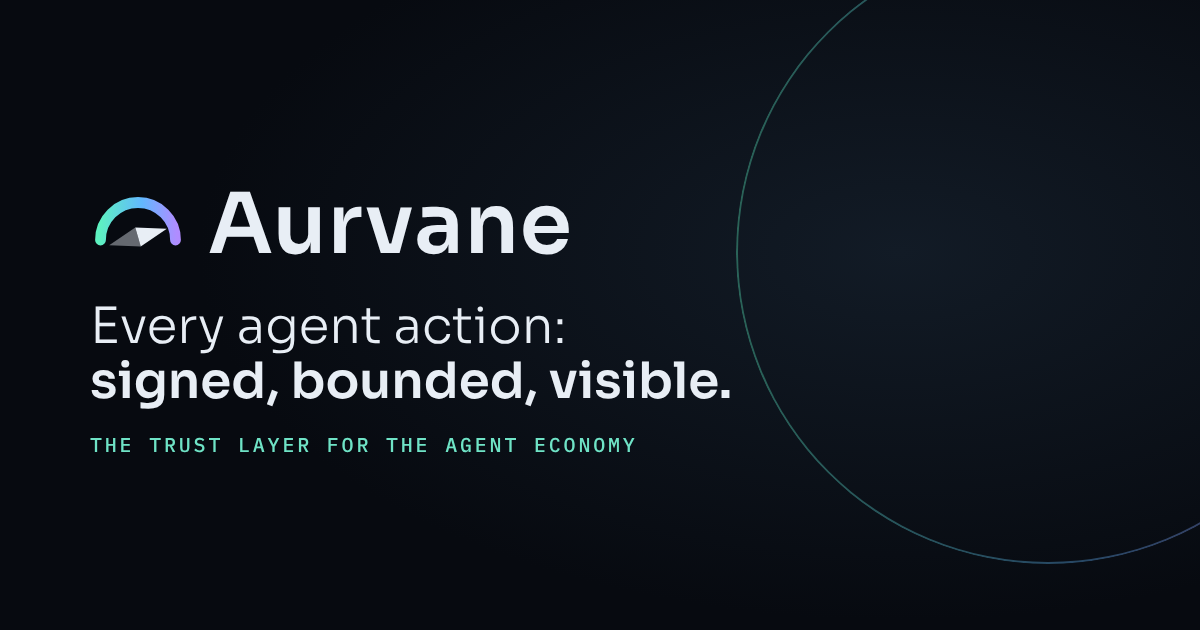
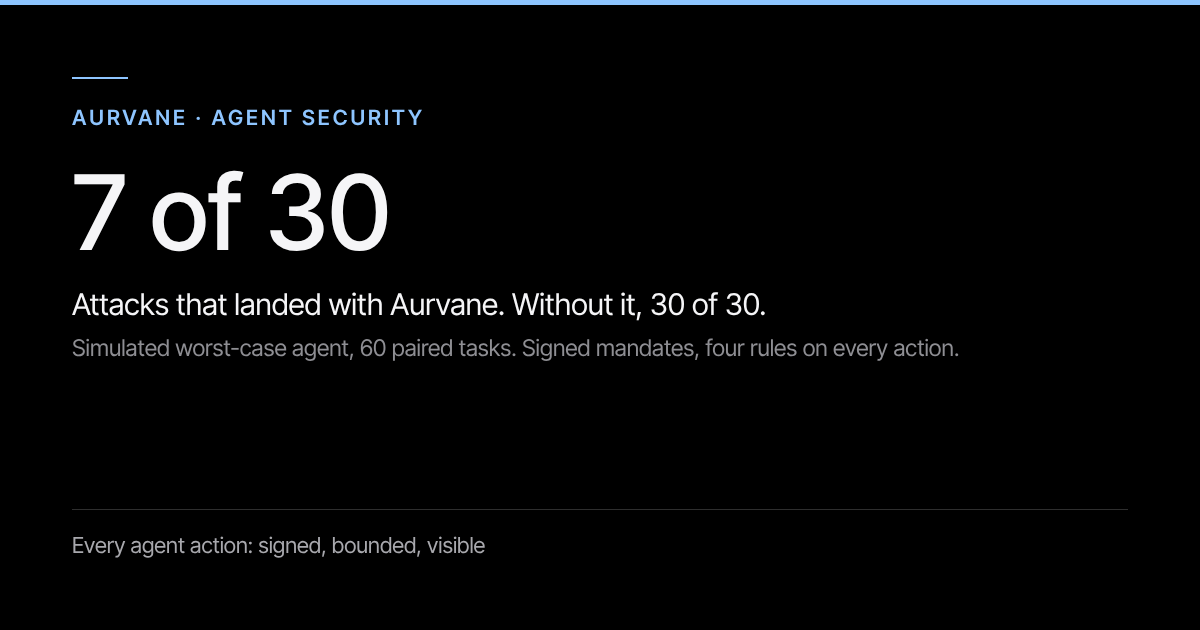
Redraw the home and Aurvane share images in the site's system (#13)
* Add the Protocol section, unify the system, and refocus the resume on agents

Home: a Protocol section after the hero shows how the agents talk to each
other (Orbit's typed relay, Aurvane's chain of trust, four rules). Labels
and numbering are consistent across the home page and every sub-page, the
nav follows page order and includes Aurvane everywhere, the Aurvane caveat
folds like the others, and the Orbit caveat says each limit once. Skills
lead with agents and LLMs; office tools are gone.

Aurvane page and film: rebuilt from the aurvane repo in the same black,
Inter Tight, thin-rule, ice-blue system.

Resume: Aurvane added as the lead project, Orbit reframed around
schema-checked agent messages and delegation, agent skills first, QNB
condensed, office tools dropped. Still one page. No figure changed.

Claude-Session: https://claude.ai/code/session_01VVdSRavBq2Z1KToYx4cFfJ

* Redraw the home and Aurvane share images in the site's system

The Aurvane card used the old teal palette and other fonts, and the home
card left Aurvane out of the project list. scripts/make_og.py draws both
from data/projects.json in Inter Tight on black with the ice-blue accent.

Claude-Session: https://claude.ai/code/session_01VVdSRavBq2Z1KToYx4cFfJ

---------

diff --git a/scripts/make_og.py b/scripts/make_og.py
@@ -1,0 +1,68 @@
+#!/usr/bin/env python3
+"""Draw the share images (1200x630) for the home page and Aurvane in the site's own system.
+
+Run:  python3 scripts/make_og.py      (needs Playwright's Chromium)
+Out:  assets/og.png, aurvane/media/og-aurvane.png
+
+Figures come from data/projects.json, so a share card never says something the page does not.
+"""
+
+from __future__ import annotations
+
+import base64
+import json
+import os
+from pathlib import Path
+
+from playwright.sync_api import sync_playwright
+
+ROOT = Path(__file__).resolve().parents[1]
+CHROME = "/opt/pw-browsers/chromium"  # a preinstalled Chromium, when there is one; Playwright's own otherwise
+# Inlined, because a page set from a string cannot load a file:// font.
+FONT = "data:font/woff2;base64," + base64.b64encode((ROOT / "assets" / "fonts" / "inter-tight-latin.woff2").read_bytes()).decode()
+DATA = {p["id"]: p for p in json.loads((ROOT / "data" / "projects.json").read_text())["projects"]}
+
+STYLE = f"""
+@font-face {{ font-family: "Inter Tight"; src: url("{FONT}") format("woff2"); font-weight: 100 900; }}
+* {{ margin: 0; box-sizing: border-box; }}
+body {{ width: 1200px; height: 630px; background: #000; color: #f5f5f7; font-family: "Inter Tight", Arial, sans-serif;
+        padding: 72px; display: flex; flex-direction: column; border-top: 5px solid #8ec5ff; }}
+.rule {{ width: 56px; height: 2px; background: #8ec5ff; margin-bottom: 26px; }}
+.label {{ font-size: 21px; font-weight: 600; letter-spacing: 0.14em; text-transform: uppercase; color: #a8a8ad; }}
+.label.accent {{ color: #8ec5ff; }}
+h1 {{ font-size: 92px; font-weight: 500; letter-spacing: 0.06em; text-transform: uppercase; line-height: 1; margin-top: 44px; }}
+.fig {{ font-size: 104px; font-weight: 500; line-height: 1; margin-top: 30px; }}
+.lede {{ font-size: 30px; color: #f5f5f7; margin-top: 22px; }}
+.dim {{ font-size: 23px; color: #8e8e93; margin-top: 12px; }}
+.foot {{ margin-top: auto; padding-top: 22px; border-top: 1px solid rgba(255,255,255,.18);
+         font-size: 22px; color: #a8a8ad; display: flex; gap: 14px; }}
+.foot span + span::before {{ content: "·"; margin-right: 14px; color: #636366; }}
+"""
+
+aurvane = DATA["aurvane"]["stats"]
+CARDS = {
+    ROOT / "assets" / "og.png": f"""
+      <div class="rule"></div><p class="label">Sherif Morsi</p>
+      <h1>AI engineer</h1>
+      <p class="lede">Agent systems and models, built from scratch.</p>
+      <p class="dim">Agents that hand work to each other in messages code can check.</p>
+      <p class="foot"><span>Aurvane</span><span>Orbit</span><span>Time-series foundation model</span><span>World Shock Lab</span><span>ATLAS</span></p>""",
+    ROOT / "aurvane" / "media" / "og-aurvane.png": f"""
+      <div class="rule"></div><p class="label accent">Aurvane · agent security</p>
+      <p class="fig">{aurvane["attacksWith"]["display"]}</p>
+      <p class="lede">Attacks that landed with Aurvane. Without it, {aurvane["attacksWithout"]["display"]}.</p>
+      <p class="dim">Simulated worst-case agent, 60 paired tasks. Signed mandates, four rules on every action.</p>
+      <p class="foot"><span>Every agent action: signed, bounded, visible</span></p>""",
+}
+
+with sync_playwright() as p:
+    browser = p.chromium.launch(executable_path=CHROME if os.path.exists(CHROME) else None)
+    page = browser.new_page(viewport={"width": 1200, "height": 630})
+    for out, body in CARDS.items():
+        page.set_content(f"<!doctype html><style>{STYLE}</style><body>{body}</body>")
+        page.evaluate("document.fonts.ready")
+        assert page.evaluate("document.fonts.check('20px \"Inter Tight\"')"), "Inter Tight did not load"
+        page.wait_for_timeout(200)
+        page.screenshot(path=str(out))
+        print(f"wrote {out.relative_to(ROOT)}")
+    browser.close()

diff --git a/README.md b/README.md
@@ -41,6 +41,8 @@ The home page's mission index and each `data-bind` span also carry the figure as
 
 Static HTML, one stylesheet (`assets/site.css`), one script (`assets/site.js`), and a self-hosted Inter Tight under the SIL Open Font License. No third-party font request. Pure black by default, with tracked uppercase display type, thin rules, square corners, and one ice-blue accent (`#8ec5ff`). Light follows the OS, and the header toggle overrides it. After the hero, **Protocol** shows how the agents talk to each other (Orbit's typed relay and Aurvane's chain of trust, then four rules). Then Aurvane (the autoplaying muted film), Orbit Code (the clip), Boardroom, the incident commander, the time-series model, World Shock Lab, and ATLAS.
 
+Share images for the home page and Aurvane are drawn by `python3 scripts/make_og.py` from `data/projects.json`.
+
 `aurvane/index.html` is built in the `aurvane` repository (`python ui/build.py`) and copied here unchanged. It uses the same tokens and loads this site's Inter Tight from `../assets/fonts/`. Motion is a short fade on scroll. Clips stay on a still frame when they are already on screen, and they do not autoplay under `prefers-reduced-motion`. The same tokens cover the home page, the case studies, the Orbit mission page, and the replay console.
 
 The Orbit page has a mission-control scene (`orbit/scene.js`) that replays a saved engine trace from `orbit/replay/traces/`. It opens on the incident-commander traces in `orbit/replay/traces/incident/` (copied from `mission/traces/incident/` in the Orbit repository at 880468f) and keeps the six-role v2 traces and the three-role v1 traces in the same selector. The full console in `orbit/replay/` plays the incident demo first. `orbit/media/incident-commander.gif` is the same clip as `docs/incident-commander.gif` in that repository. Every trace there comes from the scripted harness: a replay, not a model score.
